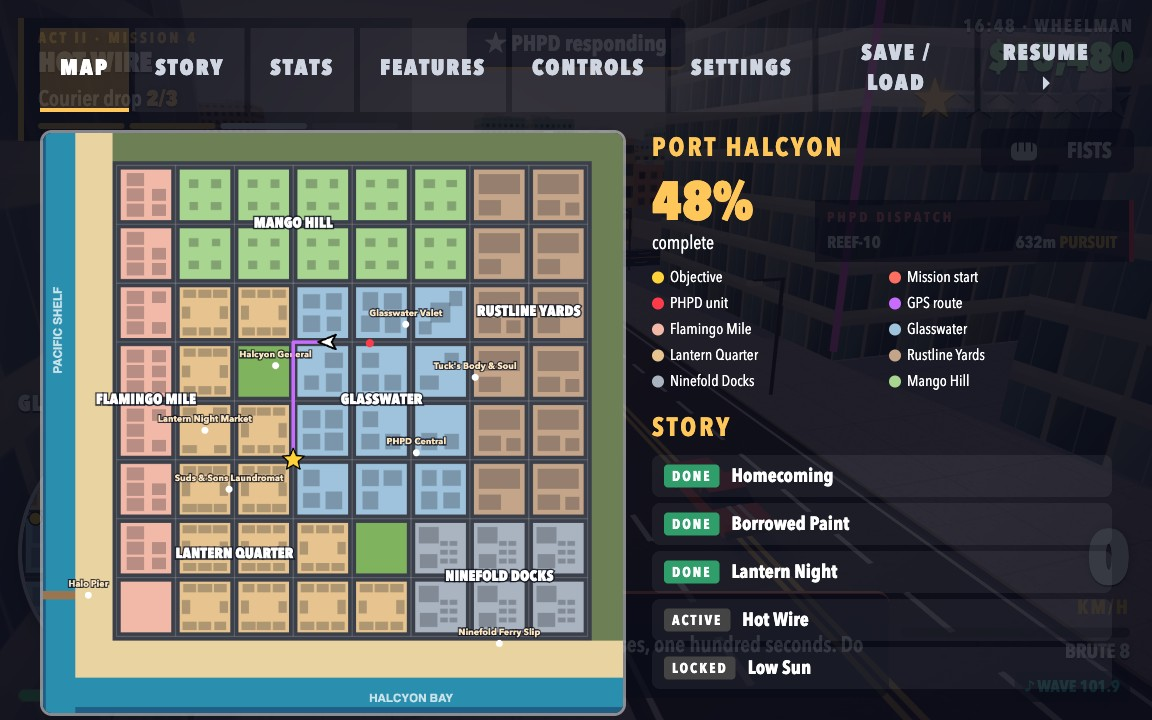
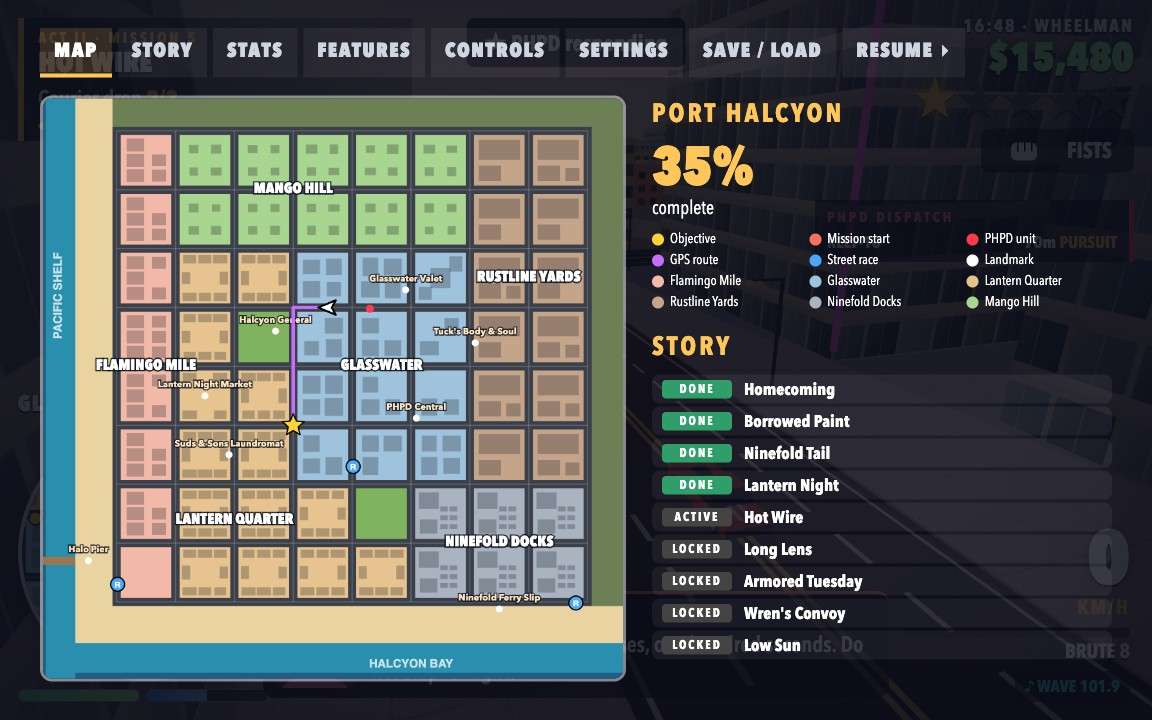
Rounder cars with arches and mirrors, live traffic signal lights, night rain with wet roads, cleaner cover framing, compact story list; new screenshots

diff --git a/game/js/debug/shots.js b/game/js/debug/shots.js
@@ -64,48 +64,49 @@ export function stageShot(G, name) {
     G.wanted.force(4); G.wanted.seen = true;
     p.selectWeapon('smg'); p.health = 82; p.armor = 64;
     // the Kestrel drifts north toward the camera; the chase fills the boulevard behind it
-    const kes = car('kestrel', -397.8, 100, Math.PI + 0.22, '#ff5a3c', 39);
+    const Z = 40; // mid-block, clear of signal posts
+    const kes = car('kestrel', -397.8, 100 + Z, Math.PI + 0.22, '#ff5a3c', 39);
     kes.roll = 0.06; kes.drifting = true; kes.controls.throttle = 1; kes.driver = null; kes.sync();
     p.enter(kes); p.x = kes.x; p.z = kes.z;
-    smokeTrail(-397.2, 103, 0.25, 1, 10);
-    smokeTrail(-399.4, 103.2, 0.3, 1, 8);
-    for (let i = 1; i < 14; i++) G.skids.add(-396.6 + i * 0.2, 102 + i * 1.3, -399 + i * 0.2, 102 + i * 1.3);
-    cop('reef', -402.6, 109.5, Math.PI - 0.1, 36, 0.4);
-    cop('reef', -393.4, 113.5, Math.PI + 0.12, 35, 3.6);
-    cop('barracuda', -398.6, 122, Math.PI - 0.03, 37, 1.9);
-    cop('reef', -404.9, 134, Math.PI + 0.06, 34, 5.0);
-    // a roadblock waiting further down the boulevard
-    const rb1 = cop('reef', -400.2, 196, Math.PI / 2 + 0.35, 0, 1.2); rb1.ai.kind = 'roadblock';
-    const rb2 = cop('reef', -394.2, 200, -Math.PI / 2 + 0.3, 0, 4.4); rb2.ai.kind = 'roadblock';
-    person('cop', -397.5, 192.5, Math.PI, 'aim'); person('cop', -404.5, 198, Math.PI + 0.2, 'aim');
+    smokeTrail(-397.2, 103 + Z, 0.25, 1, 10);
+    smokeTrail(-399.4, 103.2 + Z, 0.3, 1, 8);
+    for (let i = 1; i < 14; i++) G.skids.add(-396.6 + i * 0.2, 102 + Z + i * 1.3, -399 + i * 0.2, 102 + Z + i * 1.3);
+    cop('reef', -402.6, 109.5 + Z, Math.PI - 0.1, 36, 0.4);
+    cop('reef', -393.4, 113.5 + Z, Math.PI + 0.12, 35, 3.6);
+    cop('barracuda', -398.6, 122 + Z, Math.PI - 0.03, 37, 1.9);
+    cop('reef', -404.9, 134 + Z, Math.PI + 0.06, 34, 5.0);
+    // a roadblock closing the junction behind the chase
+    const rb1 = cop('reef', -400.2, 211, Math.PI / 2 + 0.35, 0, 1.2); rb1.ai.kind = 'roadblock';
+    const rb2 = cop('reef', -394.2, 215, -Math.PI / 2 + 0.3, 0, 4.4); rb2.ai.kind = 'roadblock';
+    person('cop', -397.5, 207.5, Math.PI, 'aim'); person('cop', -404.5, 213, Math.PI + 0.2, 'aim');
     // civilian traffic: a cab braking beside the chase, more cars down the road and across the junction
-    car('cab', -405.25, 103, -0.12, '#f6b62e', 3, { controls: { throttle: 0, brake: 1, steer: 0, handbrake: false } });
-    car('haulit', -405.25, 168, 0, '#f4f1ea', 8);
-    car('pip', -394.75, 176, Math.PI, '#8fd7d0', 0);
-    car('caravel', -401.75, 230, 0, '#2e4a7a', 10);
+    car('cab', -405.25, 103 + Z, -0.12, '#f6b62e', 3, { controls: { throttle: 0, brake: 1, steer: 0, handbrake: false } });
+    car('haulit', -405.25, 236, 0, '#f4f1ea', 8);
+    car('pip', -394.75, 186, Math.PI, '#8fd7d0', 0);
+    car('caravel', -401.75, 262, 0, '#2e4a7a', 10);
     car('brute8', -372, 201.75, Math.PI / 2, '#1f2a44', 10);
     car('caravel', -352, 198.25, -Math.PI / 2, '#8a1f2c', 10);
     // helicopter with its searchlight on the Kestrel
-    const heli = createHelicopter(G, -394.5, 124);
+    const heli = createHelicopter(G, -394.5, 124 + Z);
     heli.y = 15.5; heli.heading = Math.PI - 0.7; heli.aimX = kes.x; heli.aimZ = kes.z;
     G.police.setHeli(heli);
     heli.update(0);
     // crowd fleeing on the boardwalk and the sidewalk
-    person('ped', -409.5, 96, -Math.PI / 2 - 0.5, 'run', 1.2);
-    person('ped', -411.6, 101.5, -Math.PI / 2 + 0.3, 'run', 3.9);
-    person('ped', -410.2, 110, Math.PI - 0.6, 'run', 0.4);
-    person('ped', -413.2, 92, -Math.PI / 2, 'cower');
-    person('ped', -412.4, 118, -Math.PI / 2 - 0.2, 'run', 2.2);
-    person('ped', -414.5, 126, -Math.PI / 2 + 0.5, 'run', 5.1);
-    person('ped', -390.6, 97, Math.PI / 2 + 0.5, 'handsup');
-    person('ped', -389.9, 108, 0.3, 'run', 1.7);
-    person('ped', -391.2, 116, Math.PI / 2, 'cower');
-    person('ped', -389.6, 128, Math.PI / 2 + 0.3, 'run', 4.4);
-    for (let i = 0; i < 16; i++) person('ped', r.range(-462, -424), r.range(90, 220), r.range(-3, 3), r.chance(0.4) ? 'run' : 'idle');
+    person('ped', -409.5, 96 + Z, -Math.PI / 2 - 0.5, 'run', 1.2);
+    person('ped', -411.6, 101.5 + Z, -Math.PI / 2 + 0.3, 'run', 3.9);
+    person('ped', -410.2, 110 + Z, Math.PI - 0.6, 'run', 0.4);
+    person('ped', -413.2, 92 + Z, -Math.PI / 2, 'cower');
+    person('ped', -412.4, 118 + Z, -Math.PI / 2 - 0.2, 'run', 2.2);
+    person('ped', -414.5, 126 + Z, -Math.PI / 2 + 0.5, 'run', 5.1);
+    person('ped', -390.6, 97 + Z, Math.PI / 2 + 0.5, 'handsup');
+    person('ped', -389.9, 108 + Z, 0.3, 'run', 1.7);
+    person('ped', -391.2, 116 + Z, Math.PI / 2, 'cower');
+    person('ped', -389.6, 128 + Z, Math.PI / 2 + 0.3, 'run', 4.4);
+    for (let i = 0; i < 16; i++) person('ped', r.range(-462, -424), r.range(120, 260), r.range(-3, 3), r.chance(0.4) ? 'run' : 'idle');
     G.hud.dialogue.pin({ who: 'lux', text: 'MANTA-1 is right on you! Lose them in the Lantern Quarter, Nico!' });
-    camera([-392.6, 3.5, 86.5], [-399.4, 4.6, 118], 60);
+    camera([-392.6, 3.5, 86.5 + Z], [-399.4, 4.6, 118 + Z], 60);
     G.cameraRig.yaw = 0;
-    finish({ x: -398, z: 112 });
+    finish({ x: -398, z: 112 + Z });
   } else if (name === 'onfoot') {
     // Dusk in the Lantern Quarter night market: a gunfight with the Rustline Kings.
     G.dayNight.setHour(17.95);
@@ -168,6 +169,7 @@ export function stageShot(G, name) {
   } else if (name === 'night') {
     // Neon night in Glasswater: the Hot Wire courier run against the clock, traffic headlights everywhere.
     G.dayNight.setHour(21.6);
+    G.weather.setRain(true);
     G.progression.cash = 15480; G.progression.respect = 760;
     G.missions.loadState({ done: ['homecoming', 'borrowed-paint', 'ninefold-tail', 'lantern-night'] });
     G.missions.startMission('hot-wire');

diff --git a/game/js/main.js b/game/js/main.js
@@ -24,6 +24,8 @@ import { createDayNightCycle } from './render/dayNightCycle.js';
 import { createLightGlows } from './render/lightGlows.js';
 import { createEffects, createSkidMarks } from './render/effects.js';
 import { createCameraRig } from './render/cameraRig.js';
+import { createWeather } from './render/weather.js';
+import { signalState } from './ai/trafficSignals.js';
 import { createCrowdRenderer } from './entities/characterModel.js';
 import { paintCityMap } from './ui/cityMapPainter.js';
 import { input, attachInput } from './core/input.js';
@@ -57,6 +59,8 @@ G.dayNight.nightObjects.push(...props.nightMeshes);
 G.glows = createLightGlows(R.scene);
 G.glows.addStatic(city.glowPoints); G.glows.addStatic(G.coast.glowPoints); G.glows.addStatic(props.glowPoints);
 G.effects = createEffects(R.scene);
+G.weather = createWeather(R.scene, { roadMaterials: city.roadMaterials });
+G.signalLamps = props.signalLamps;
 G.skids = createSkidMarks(R.scene);
 G.crowd = createCrowdRenderer(R.scene);
 G.mapScale = 1;
@@ -148,7 +152,7 @@ document.addEventListener('pointerlockchange', () => { if (!input.locked() && G.
 
 // ---- frame update
 function update(dt) {
-  if (G.mode === 'shot') { G.effects.update(dt * 0.0001); return; }
+  if (G.mode === 'shot') { G.effects.update(dt * 0.0001); G.weather.update(0, G.camera, G.dayNight.state.isNight, G.time); return; }
   if (G.mode === 'pause') { input.endFrame(); return; }
   G.time += dt;
   const p = G.player;
@@ -175,6 +179,7 @@ function update(dt) {
   for (const v of G.vehicles) v.update(dt);
   resolveVehicleCollisions(G, G.vehicles);
   G.effects.update(dt);
+  G.weather.update(dt, G.camera, G.dayNight.state.isNight, G.time);
   G.coast.update(dt, G.time);
   if (G.mode === 'play') {
     const st = G.progression.stats;
@@ -200,6 +205,14 @@ function render(dt) {
   for (const v of G.vehicles) if (Math.abs(v.x - c.x) < 260 && Math.abs(v.z - c.z) < 260) v.drawGlows(glows, night);
   G.police.drawGlows(glows);
   G.effects.drawGlows(glows);
+  // live traffic signals near the camera
+  for (const s of G.signalLamps) {
+    if (Math.abs(s.x - c.x) > 150 || Math.abs(s.z - c.z) > 150) continue;
+    const st = signalState(s.axis, G.time);
+    if (st === 'red') glows.add(s.x, 5.15, s.z, 1.6, 0.1, 0.05, 3.2);
+    else if (st === 'amber') glows.add(s.x, 4.75, s.z, 1.6, 0.8, 0.05, 3.2);
+    else glows.add(s.x, 4.35, s.z, 0.1, 1.6, 0.5, 3.2);
+  }
   glows.end();
   R.renderer.render(R.scene, G.camera);
   if (G.mode !== 'title') G.hud.update(dt);

diff --git a/game/js/render/weather.js b/game/js/render/weather.js
@@ -1,0 +1,46 @@
+// Weather: night rain showers. Streaks fall in a box that follows the camera, the roads turn glossy
+// and wet, and the fog thickens. Rain comes and goes on its own at night.
+import * as THREE from 'three';
+
+export function createWeather(scene, { roadMaterials = [] } = {}) {
+  const N = 2200, W = 60, H = 30;
+  const pos = new Float32Array(N * 6);
+  const seeds = new Float32Array(N * 3);
+  for (let i = 0; i < N; i++) { seeds[i * 3] = Math.random() * W - W / 2; seeds[i * 3 + 1] = Math.random() * H; seeds[i * 3 + 2] = Math.random() * W - W / 2; }
+  const geo = new THREE.BufferGeometry();
+  geo.setAttribute('position', new THREE.BufferAttribute(pos, 3).setUsage(THREE.DynamicDrawUsage));
+  const lines = new THREE.LineSegments(geo, new THREE.LineBasicMaterial({ color: 0xaac4e8, transparent: true, opacity: 0.38, depthWrite: false }));
+  lines.frustumCulled = false;
+  lines.visible = false;
+  scene.add(lines);
+  const dry = roadMaterials.map((m) => ({ m, rough: m.roughness, metal: m.metalness }));
+  const state = { raining: false, wet: 0, timer: 90, forced: null };
+
+  function applyWet() {
+    for (const d of dry) { d.m.roughness = d.rough - state.wet * 0.55; d.m.metalness = d.metal + state.wet * 0.35; }
+  }
+
+  return {
+    state,
+    setRain(on) { state.forced = on; state.raining = on; state.wet = on ? 1 : 0; lines.visible = on; applyWet(); },
+    update(dt, camera, isNight, t) {
+      if (state.forced === null) {
+        state.timer -= dt;
+        if (state.timer <= 0) { state.raining = isNight && !state.raining && Math.random() < 0.5; state.timer = 60 + Math.random() * 90; }
+        if (!isNight) state.raining = false;
+      }
+      state.wet += ((state.raining ? 1 : 0) - state.wet) * Math.min(1, dt * 0.2);
+      applyWet();
+      lines.visible = state.raining || (state.forced === true);
+      if (!lines.visible) return;
+      const c = camera.position;
+      for (let i = 0; i < N; i++) {
+        const x = c.x + seeds[i * 3];
+        const z = c.z + seeds[i * 3 + 2];
+        const y = c.y - 6 + ((seeds[i * 3 + 1] - t * 24) % H + H) % H;
+        pos.set([x, y, z, x + 0.05, y - 0.9, z + 0.02], i * 6);
+      }
+      geo.attributes.position.needsUpdate = true;
+    },
+  };
+}

diff --git a/game/js/world/streetProps.js b/game/js/world/streetProps.js
@@ -92,9 +92,10 @@ export function buildStreetProps(scene, plan) {
     if (bl.kind === 'park') for (let i = 0; i < 26; i++) trees.push([bl.x + rnd.range(-36, 36), bl.z + rnd.range(-36, 36), rnd.range(0, 6), rnd.range(0.8, 1.3)]);
     if (bl.district === 'mango' || bl.kind === 'pier-plaza') for (let i = 0; i < 8; i++) palms.push([bl.x + rnd.range(-38, 38), bl.z + rnd.range(-38, 38), rnd.range(0, 6), rnd.range(0.8, 1.2)]);
   }
-  // signal heads on two corners of each inner intersection
+  // signal heads on all four corners: two face north-south traffic, two face east-west traffic
   for (const x of GRID) for (const z of GRID) {
-    signals.push([x + 8.5, z + 8.5, Math.PI]); signals.push([x - 8.5, z - 8.5, 0]);
+    signals.push([x + 8.5, z + 8.5, Math.PI, 1, 'ns']); signals.push([x - 8.5, z - 8.5, 0, 1, 'ns']);
+    signals.push([x + 8.5, z - 8.5, -Math.PI / 2, 1, 'ew']); signals.push([x - 8.5, z + 8.5, Math.PI / 2, 1, 'ew']);
   }
 
   const dummy = new THREE.Object3D();
@@ -129,5 +130,10 @@ export function buildStreetProps(scene, plan) {
   const poolMesh = new THREE.Mesh(pools.build(), new THREE.MeshBasicMaterial({ map: makeGlowTexture(), vertexColors: true, transparent: true, opacity: 0.55, blending: THREE.AdditiveBlending, depthWrite: false, fog: false, polygonOffset: true, polygonOffsetFactor: -4 }));
   poolMesh.visible = false;
   scene.add(poolMesh);
-  return { glowPoints, palmCount: palms.length, nightMeshes: [poolMesh] };
+  // lamp positions of each signal head, so the live red/amber/green state can glow
+  const signalLamps = signals.map(([x, z, r, , axis]) => {
+    const fx = Math.sin(r) * 0.25, fz = Math.cos(r) * 0.25;
+    return { x: x + fx, z: z + fz, axis };
+  });
+  return { glowPoints, palmCount: palms.length, nightMeshes: [poolMesh], signalLamps };
 }

diff --git a/game/js/entities/vehicleModels.js b/game/js/entities/vehicleModels.js
@@ -37,7 +37,18 @@ export function vehicleGeometry(type, paintHex) {
 
   // lower body (doors, sills) and the shoulder line
   const bodyTop = st === 'sports' ? 0.78 : st === 'van' ? 1.05 : st === 'muscle' ? 0.86 : 0.9;
-  mb.box(0, (clear + bodyTop) / 2, 0, s.wid, bodyTop - clear, s.len, lowerPaint, { topColor: paint });
+  // lower body with a rounded shoulder: a straight box topped by a tapered prism
+  const shoulder = st === 'van' ? 0.12 : 0.17;
+  mb.box(0, (clear + bodyTop - shoulder) / 2, 0, s.wid, bodyTop - shoulder - clear, s.len, lowerPaint, { top: false });
+  mb.prism(0, bodyTop - shoulder, 0, W, L, shoulder, { front: 0.16, back: 0.12, side: 0.08 }, paint);
+  // nose and tail taper under the bumpers
+  mb.prism(0, clear, L - 0.05, W - 0.04, 0.1, 0.32, { front: 0.08, side: 0.06 }, lowerPaint);
+  // wheel arches, door seams and mirrors
+  for (const sx of [-1, 1]) {
+    for (const sz of [-1, 1]) mb.box(sx * (W + 0.005), (st === 'van' ? 0.4 : 0.36) + 0.12, sz * L * 0.66, 0.03, 0.34, (st === 'van' ? 0.4 : 0.36) * 2.5, vcolor('#16181c'));
+    mb.box(sx * (W + 0.004), (clear + bodyTop) / 2 + 0.05, L * 0.12, 0.01, bodyTop - clear - 0.2, 0.025, vcolor('#202226'));
+    if (st !== 'van') mb.box(sx * (W + 0.1), bodyTop + 0.12, L * 0.28, 0.2, 0.1, 0.14, paint);
+  }
   if (police) mb.box(0, bodyTop - 0.12, 0, s.wid + 0.02, 0.14, s.len * 0.9, vcolor('#f4f4f0'));
   if (police) mb.box(0, 0.62, 0, s.wid + 0.03, 0.08, s.len * 0.7, vcolor('#2bd0c4'));
   // bumpers and grille

diff --git a/game/styles/menus.css b/game/styles/menus.css
@@ -24,10 +24,12 @@
 .story-row { display: flex; align-items: center; gap: 12px; padding: 8px 12px; margin-bottom: 6px; background: rgba(255,255,255,0.06); border-radius: 8px; font-weight: 700; }
 .story-row .st { font-size: 14px; letter-spacing: 2px; padding: 2px 8px; border-radius: 4px; background: #444; }
 .story-row.done .st { background: #2f9e6a; } .story-row.next .st { background: var(--hk-coral); }
+.story-row.compact { padding: 3px 10px; margin-bottom: 3px; font-size: 17px; }
+.story-row.compact .st { font-size: 12px; padding: 1px 6px; min-width: 58px; text-align: center; }
 .story-row small { display: block; font-weight: 500; opacity: 0.8; font-size: 16px; }
 .progress-big { font-size: 54px; font-weight: 900; color: var(--hk-gold); line-height: 1; }
 .stat-line { display: flex; justify-content: space-between; border-bottom: 1px solid rgba(255,255,255,0.1); padding: 5px 0; }
-.legend { display: grid; grid-template-columns: 1fr 1fr; gap: 4px 14px; margin-top: 10px; font-size: 16px; }
+.legend { display: grid; grid-template-columns: 1fr 1fr 1fr; gap: 2px 12px; margin-top: 8px; font-size: 14px; }
 .legend i { display: inline-block; width: 12px; height: 12px; border-radius: 50%; margin-right: 6px; vertical-align: middle; }
 .controls-grid { display: grid; grid-template-columns: max-content 1fr; gap: 6px 22px; font-size: 19px; }
 .controls-grid kbd { background: #fff; color: #111; border-radius: 4px; padding: 1px 8px; font-family: var(--hk-font); font-weight: 800; }

diff --git a/game/index.html b/game/index.html
@@ -39,7 +39,7 @@
     <li id="feat-side-activities">Side activities: 3 street time trials and Halcyon Cabs taxi fares; cash, respect and ranks</li>
     <li id="feat-hud-minimap">HUD: rotating minimap with GPS route and police blips, stars, speedometer, mission card</li>
     <li id="feat-menus-save">Pause menu with city map, story, features, controls, settings and 3 save slots</li>
-    <li id="feat-day-night">Day-night cycle from golden hour to neon night</li>
+    <li id="feat-day-night">Day-night cycle from golden hour to neon night, night rain with wet roads, live traffic signals</li>
     <li id="feat-synth-audio">Synthesised audio: engine, sirens, gunshots, radio station</li>
   </ul>
   <p class="title-hint">WASD move · Mouse look · F enter/steal car · Esc pause · M map</p>

diff --git a/game/js/ui/menus.js b/game/js/ui/menus.js
@@ -100,7 +100,7 @@ export function createMenus(G) {
   }
 
   function storyRows(long = false) {
-    return G.missions.list().map((m) => `<div class="story-row ${m.state}"><span class="st">${m.state.toUpperCase()}</span><span>${m.title}${long ? `<small>${m.act} · for ${CAST[m.giver].name} · $${m.reward.toLocaleString('en-US')}</small>` : ''}</span></div>`).join('');
+    return G.missions.list().map((m) => `<div class="story-row ${m.state}${long ? '' : ' compact'}"><span class="st">${m.state.toUpperCase()}</span><span>${m.title}${long ? `<small>${m.act} · for ${CAST[m.giver].name} · $${m.reward.toLocaleString('en-US')}</small>` : ''}</span></div>`).join('');
   }
 
   return {

diff --git a/game/js/world/cityBuilder.js b/game/js/world/cityBuilder.js
@@ -214,5 +214,5 @@ export function buildCity(scene, dayNight) {
   collision.addBox(CITY_MAX + 20, -900, CITY_MAX + 60, 900, 50);
   collision.addBox(-900, CITY_MIN - 60, 900, CITY_MIN - 20, 50);
 
-  return { plan, collision, meshes, glowPoints };
+  return { plan, collision, meshes, glowPoints, roadMaterials: [roadMat, crossMat] };
 }
